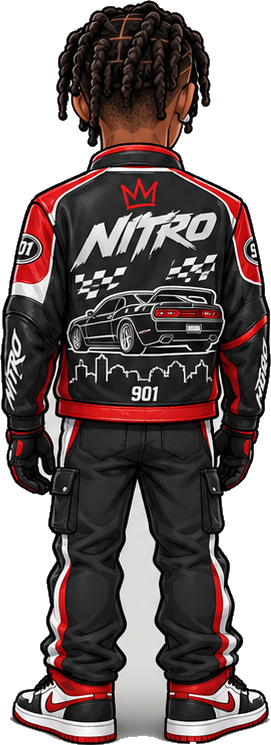
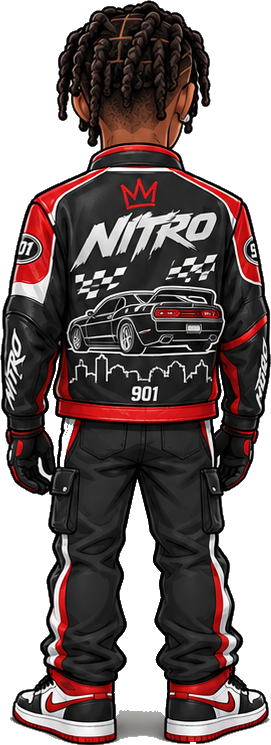
fix(game-v2): drop the blobs under cars and finish Nitro's cutout
The wheel and belly meshes were sticking out of the vehicle cards. Nitro's back, front, and side views still had opaque paper between the legs and under the arms.

Changed region(s): [[0.4133, 0.6483, 0.6199, 0.957], [0.1476, 0.5248, 0.2657, 0.6483], [0.7675, 0.494, 0.8266, 0.5866]]

diff --git a/src/game-v2/world/kits/vehicles.ts b/src/game-v2/world/kits/vehicles.ts
@@ -10,8 +10,6 @@ const SIZE: Record<VehicleKind, { length: number; width: number; height: number 
   coupe: { length: 4.9, width: 1.9, height: 1.4 },
 };
 
-const wheelGeo = new THREE.CylinderGeometry(0.22, 0.22, 0.16, 10);
-const wheelMat = new THREE.MeshStandardMaterial({ color: 0x161616, roughness: 0.72 });
 const loader = new THREE.TextureLoader();
 const cache = new Map<string, THREE.Texture>();
 
@@ -74,23 +72,6 @@ export function carBody(kind: VehicleKind) {
   shadow.rotation.x = -Math.PI / 2;
   shadow.position.y = 0.012;
   shadow.scale.set(1.05, 1.15, 1);
-  const belly = new THREE.Mesh(
-    new THREE.BoxGeometry(spec.length * 0.62, 0.1, spec.width * 0.46),
-    new THREE.MeshStandardMaterial({ color: 0x161616, roughness: 0.85 }),
-  );
-  belly.position.y = 0.18;
-  g.add(belly);
-  for (const [fx, fz] of [
-    [0.32, 0.36],
-    [0.32, -0.36],
-    [-0.32, 0.36],
-    [-0.32, -0.36],
-  ] as const) {
-    const wheel = new THREE.Mesh(wheelGeo, wheelMat);
-    wheel.rotation.x = Math.PI / 2;
-    wheel.position.set(fx * spec.length, 0.28, fz * spec.width);
-    g.add(wheel);
-  }
   g.add(shadow);
   const rec: VehicleCard = { group: g, card, mat, kind, views, face: "left" };
   g.userData.card = rec;

diff --git a/src/game-v2/assets/characters.ts b/src/game-v2/assets/characters.ts
@@ -41,7 +41,7 @@ export type CharacterAsset = {
 const cut = (src: string): Cutout => {
   const bounds = characterBounds[src];
   if (!bounds) throw new Error(`No alpha bounds for ${src}`);
-  return { src: `${src}?v=9`, footPad: bounds.bottomPadding, ...bounds };
+  return { src: `${src}?v=10`, footPad: bounds.bottomPadding, ...bounds };
 };
 
 const turnaround = (folder: string) => ({

diff --git a/src/game-v2/GameV2.tsx b/src/game-v2/GameV2.tsx
@@ -45,7 +45,7 @@ export function GameV2() {
       dead = true;
       stop();
     };
-  }, [11]);
+  }, [12]);
 
   return (
     <div className="fixed inset-0 bg-[#071018]">
